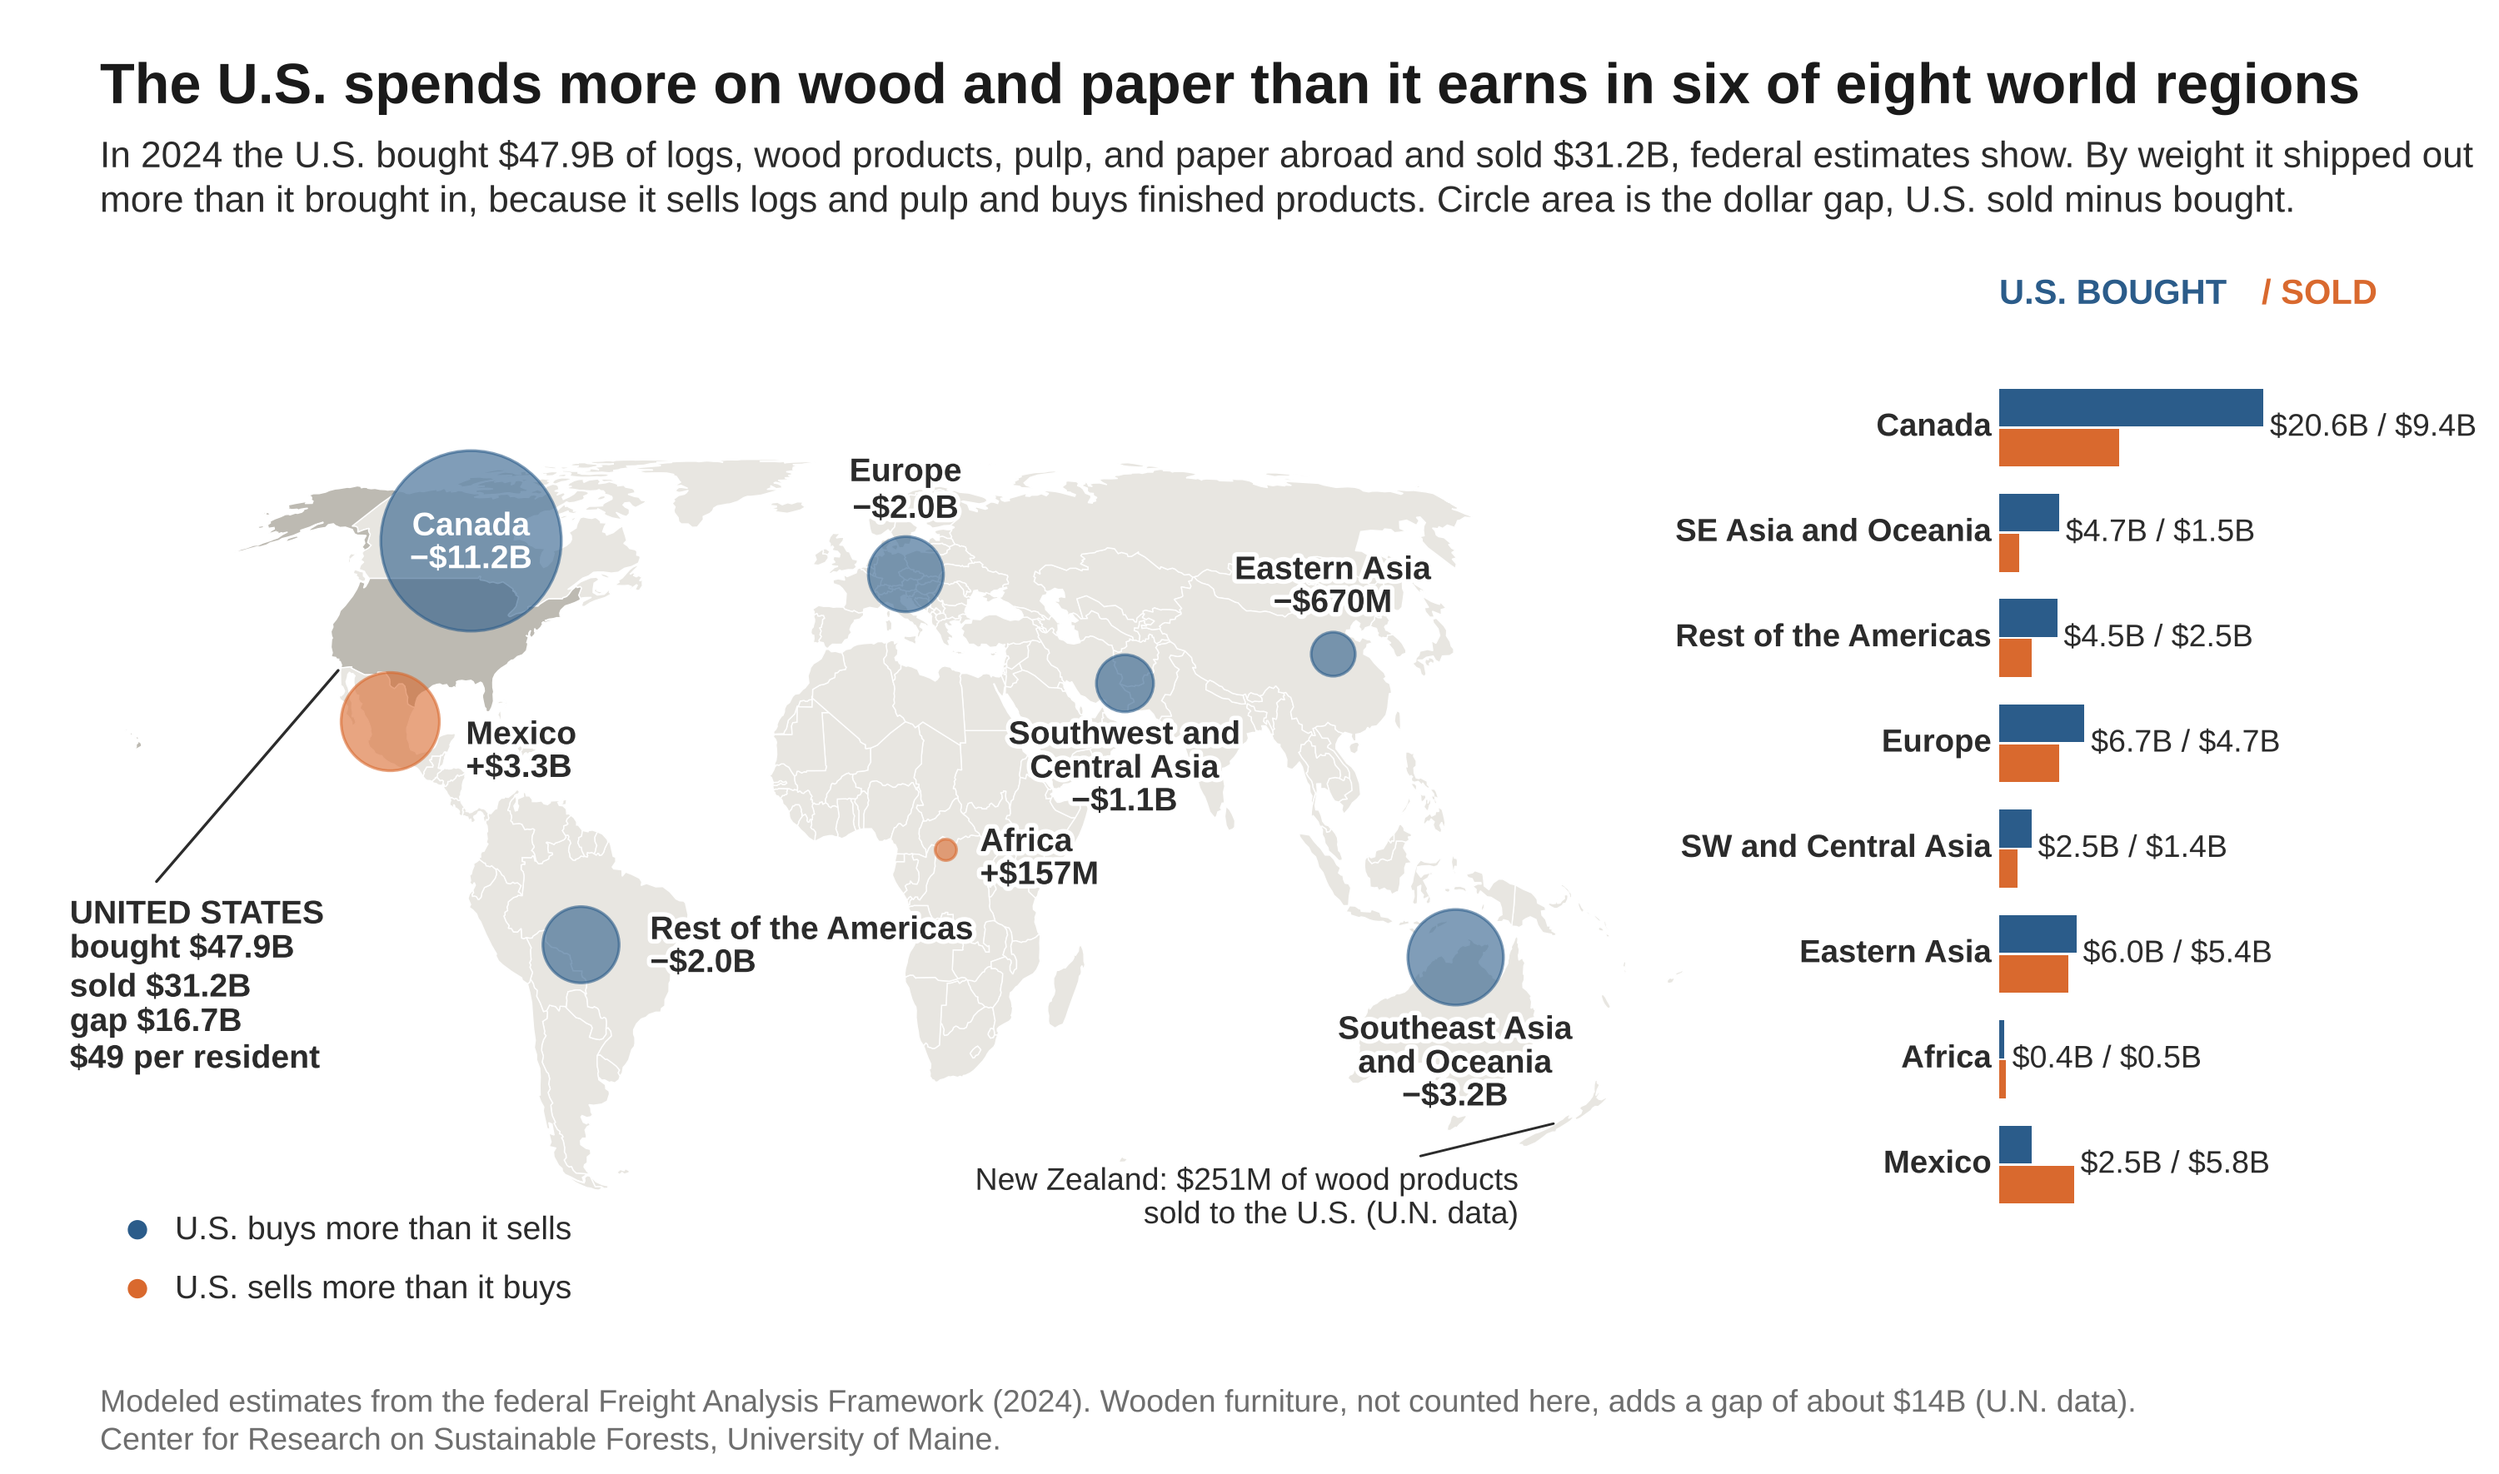
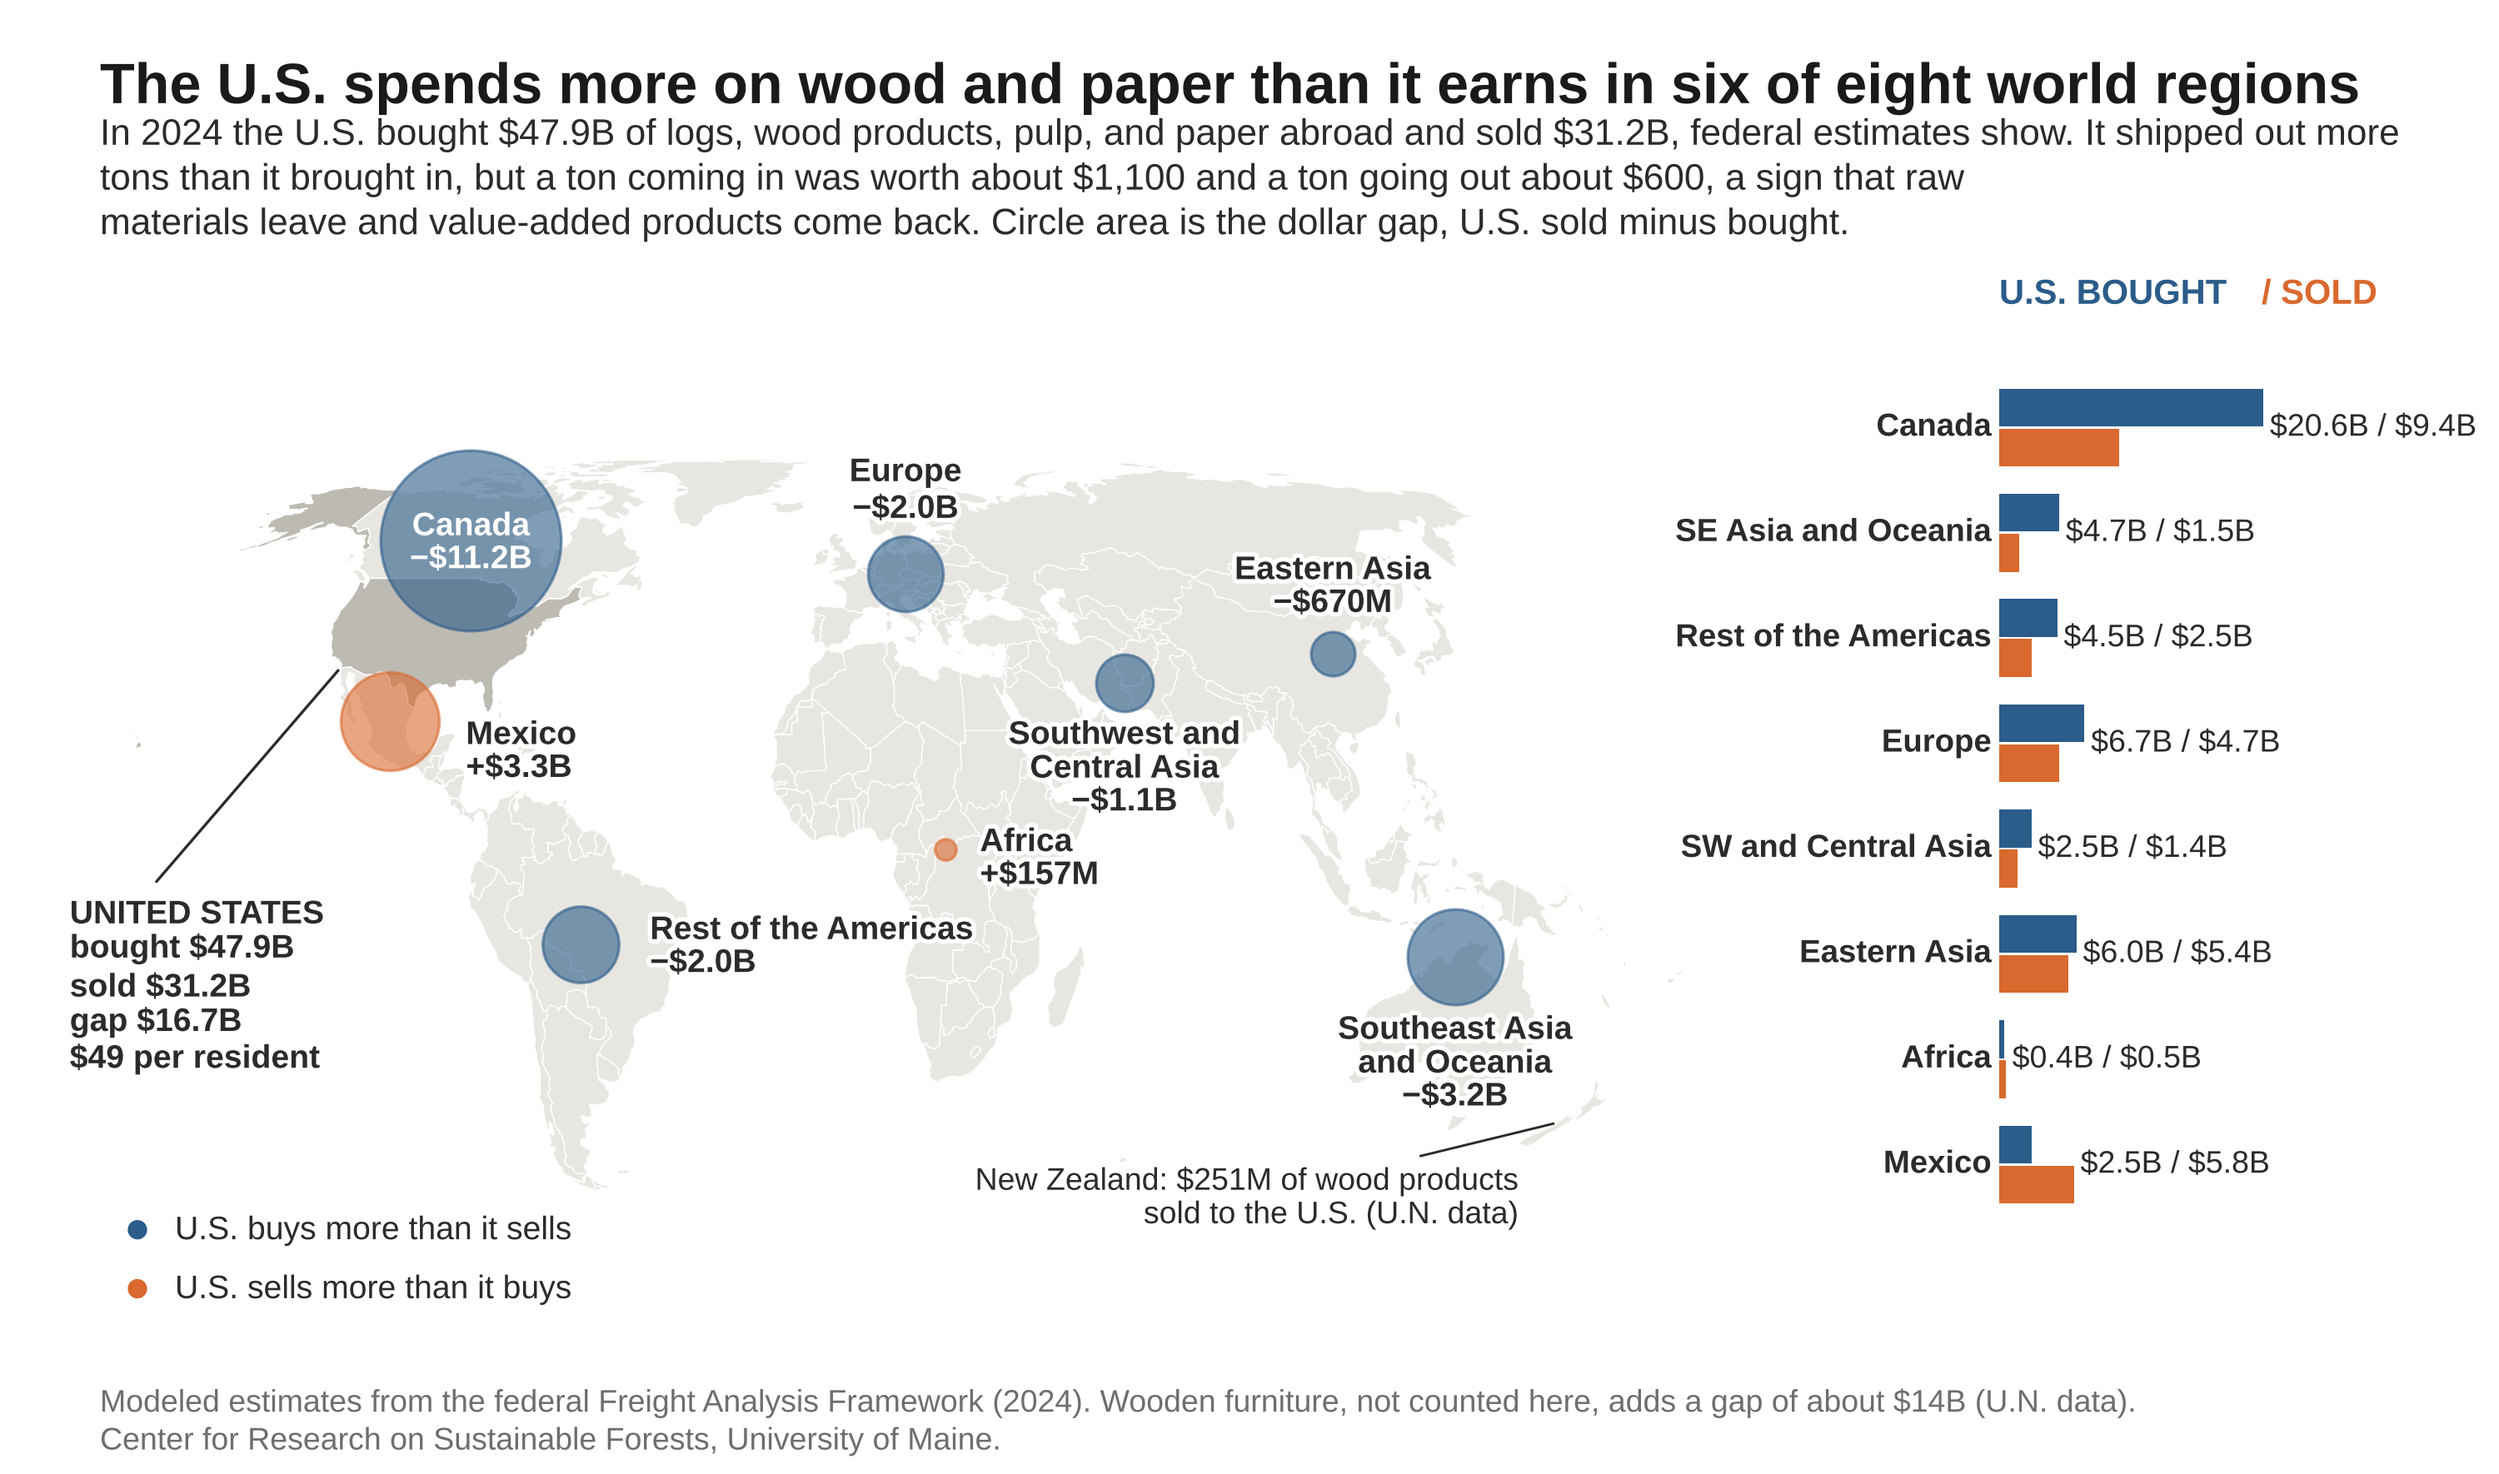
World trade figure: value per ton framing in the deck
Claude-Session: https://claude.ai/code/session_013WsDVoeaXCGmdbNt2QvfhH

Changed region(s): [[0.031, 0.0621, 0.992, 0.1554]]

diff --git a/wood-travels/2026-11-14_us-wood-net-trade-by-world-region-map_DRAFT.py b/wood-travels/2026-11-14_us-wood-net-trade-by-world-region-map_DRAFT.py
@@ -79,6 +79,8 @@ def add_poly(ax, rings, proj, **kw):
 world = topo(f"{ATLAS}/world-atlas/countries-110m.json", "countries")
 reg = {r["region"]: (float(r["import_musd"]), float(r["export_musd"])) for r in csv.DictReader(open(os.path.join(HERE, "2024_us-wood-trade-by-world-region-faf5_DATA.csv")))}
 imp = sum(v[0] for v in reg.values()); exp_ = sum(v[1] for v in reg.values()); nneg = sum(1 for v in reg.values() if v[1] < v[0])
+_kt = list(csv.DictReader(open(os.path.join(HERE, "2024_us-wood-trade-by-world-region-faf5_DATA.csv")))); kti = sum(float(r["import_kt"]) for r in _kt); kto = sum(float(r["export_kt"]) for r in _kt)
+print("kt in", kti, "kt out", kto, "usd per ton in", imp / kti * 1000, "out", exp_ / kto * 1000)
 print("imports", imp, "exports", exp_, "net", exp_ - imp, "regions selling the U.S. more:", nneg)
 B = lambda v: f"\\${v / 1000 + 1e-9:.1f}B"
 K = 26 / math.sqrt(11244)
@@ -89,7 +91,7 @@ BUY, SELL = "#2B5C8A", "#D9692E"
 
 fig = plt.figure(figsize=(10, 5.9), dpi=300); fig.patch.set_facecolor("white")
 fig.text(0.04, 0.94, f"The U.S. spends more on wood and paper than it earns in {['zero','one','two','three','four','five','six','seven','eight'][nneg]} of eight world regions", fontweight="bold", fontsize=16.4, color="#1A1A1A", ha="left", va="center")
-fig.text(0.04, 0.878, f"In 2024 the U.S. bought {B(imp)} of logs, wood products, pulp, and paper abroad and sold {B(exp_)}, federal estimates show. By weight it shipped out\nmore than it brought in, because it sells logs and pulp and buys finished products. Circle area is the dollar gap, U.S. sold minus bought.", fontsize=10.6, color=INK, ha="left", va="center", linespacing=1.3)
+fig.text(0.04, 0.878, f"In 2024 the U.S. bought {B(imp)} of logs, wood products, pulp, and paper abroad and sold {B(exp_)}, federal estimates show. It shipped out more\ntons than it brought in, but a ton coming in was worth about \\${imp / kti * 1000:,.0f} and a ton going out about \\${exp_ / kto * 1000:,.0f}, a sign that raw\nmaterials leave and value-added products come back. Circle area is the dollar gap, U.S. sold minus bought.", fontsize=10.6, color=INK, ha="left", va="center", linespacing=1.3)
 
 ax = fig.add_axes([0.02, 0.07, 0.66, 0.74]); ax.set_axis_off(); ax.set_aspect("equal")
 for name, rings in world.items():
